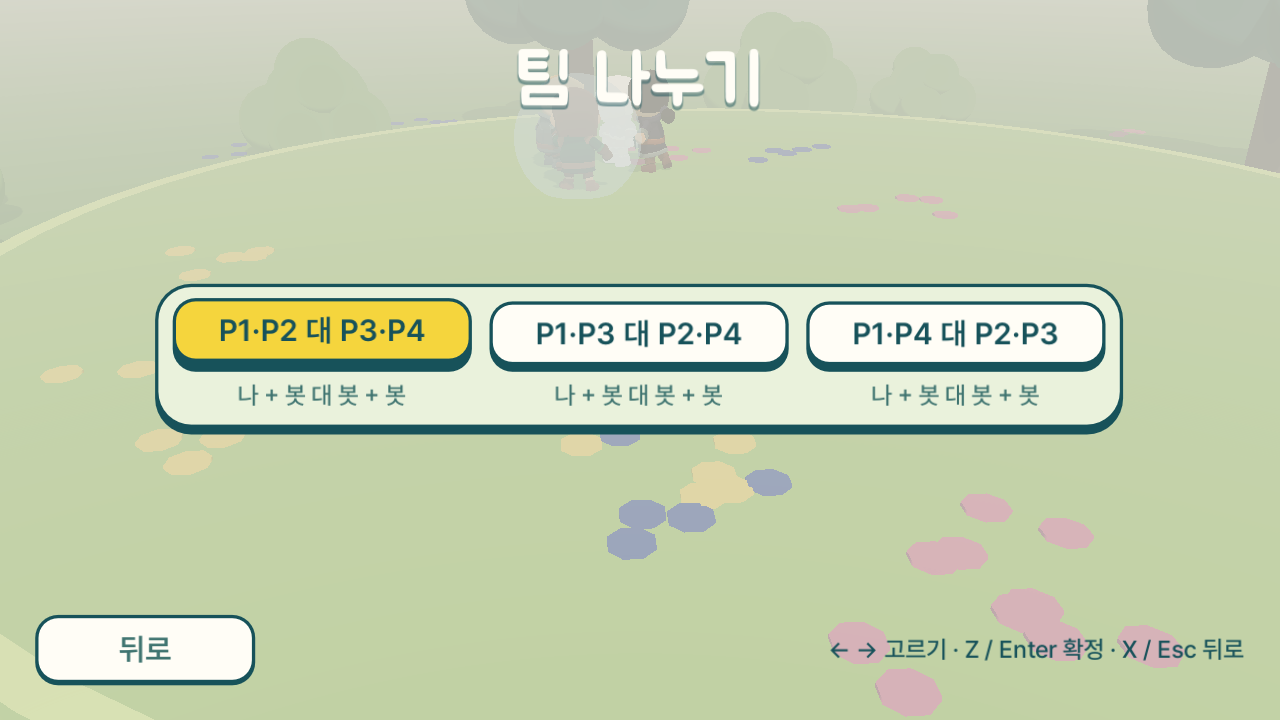
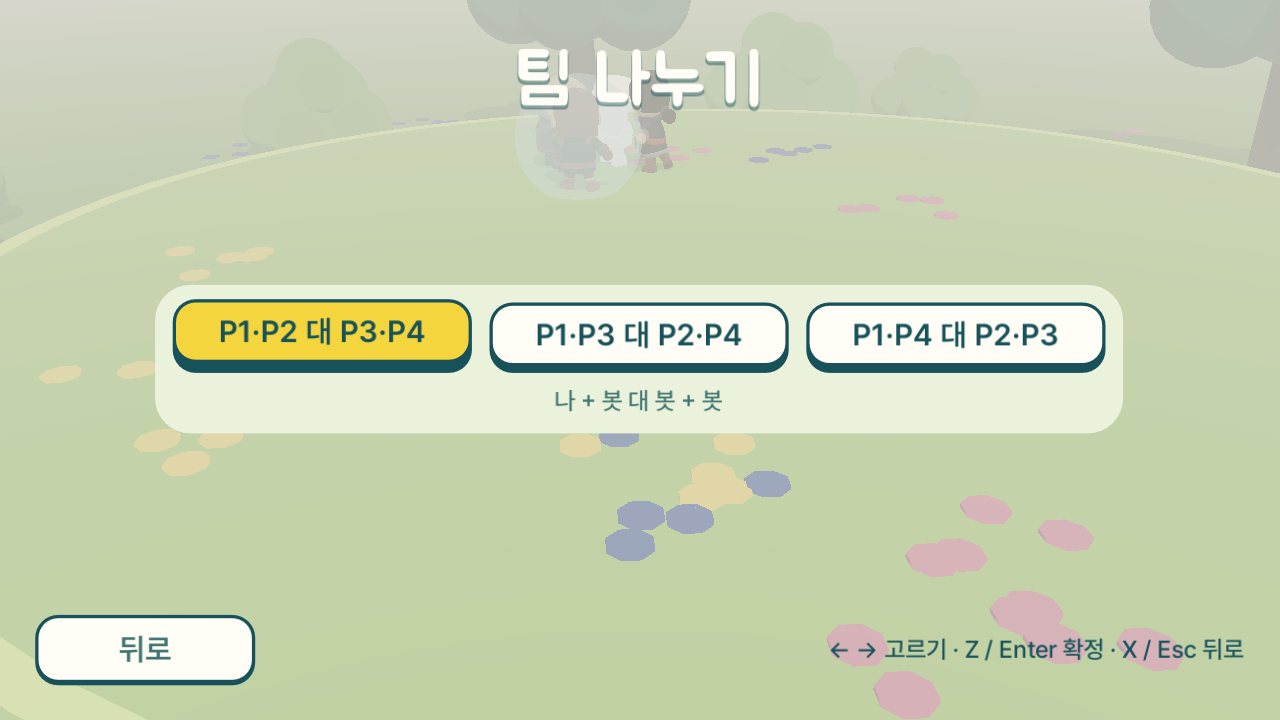
fix: declutter menu panels and repeated option captions
Panels drop their outline so only the sticker keys draw lines, and an
option row whose captions are all the same says it once under the row.

diff --git a/docs/design.md b/docs/design.md
@@ -364,7 +364,7 @@ v1 (Phase 1~5): 정보는 상단·조작은 하단, `DamageCounter`를 상단에
 | DS-CMP-04 | `TouchButton` | 액션 입력 | idle · pressed · highlight · disabled · charging | 아이콘, `petal_yellow`, `motion_fast` | 1 (v1), 2 (v2) | PRD-CTL-03, PRD-CTL-04 |
 | DS-CMP-05 | `ChargeGauge` | 강공격 차지량 (월드 공간) | 차지 중 · 최대(반짝) | `petal_yellow` → `fire`, `glow` | 2 | PRD-CMB-02 |
 | DS-CMP-06 | `MenuButton` (`UiMenuButton`) | 메뉴 조작 | idle · focus(호버 포함) · pressed · disabled | **v2 코믹 스티커 키 (2026-10-08)**: `ui_surface` 면 + `canopy_deep` 외곽선 `sticker_edge` 3 + 아래쪽 두꺼운 키 테두리(primary `sticker_depth` 6 / secondary 2 + `ui_text_soft` 글자). focus = `petal_yellow` 면 + 키가 3px 들림(`sticker_depth_focus` 9), pressed = `ui_accent` 면 + 키가 눌림(2) + `PRESS_SQUISH`, disabled = `ui_surface_dim` 평평. 블러 그림자 없음. `radius_m`, 높이 `button_height` 64, 안쪽 여백 `s5`/`s2`. 메뉴 하단 "뒤로"는 폭 `back_button_width` 200. ghost(유리 카드 위)는 투명 + `ui_surface` 70% 테두리 그대로 | 4.0 | PRD-UI-02 |
-| DS-CMP-07 | `Panel` (`UiPanel`) | 메뉴·설정 컨테이너 | 기본 | **v2 코믹 스티커 카드 (2026-10-08)**: `ui_surface_dim` 면 + `canopy_deep` 외곽선 + 아래 키 테두리 `sticker_depth`, `radius_l`, 안쪽 여백 `s4`(v1 `s6`에서 축소). 테마 기본 `PanelContainer`·`Button`(토글)도 같은 스티커(`Sticker.box`). 패널 안 슬라이더 홈은 `ui_surface` | 4.0 | PRD-UI-02 |
+| DS-CMP-07 | `Panel` (`UiPanel`) | 메뉴·설정 컨테이너 | 기본 | **v2 평면 카드 (2026-10-08)**: `ui_surface_dim` 면, 외곽선·그림자 없음(선은 안의 스티커 키만 그린다 — 패널까지 외곽선이면 선이 겹쳐 어지러움), `radius_l`, 안쪽 여백 `s4`(v1 `s6`에서 축소). 테마 기본 `PanelContainer`도 같은 평면, `Button`(토글)은 스티커(`Sticker.box`). 옵션 선택 화면에서 모든 옵션 설명이 같으면 줄 아래 한 번만 쓴다(`OptionPanel`). 패널 안 슬라이더 홈은 `ui_surface` | 4.0 | PRD-UI-02 |
 | DS-CMP-08 | `SelectCard` | 경기장·캐릭터 선택 | idle · focus · selected · locked | `title`, 디오라마 썸네일(경기장) / 캐릭터 초상(`CharacterPortrait`: 자기 모델이 작은 잔디 무대에서 idle, 포커스·선택된 카드만 매 프레임 그림), 플레이어 색 링(선택), 커서 배지(`CardMarks`: 그 카드에 커서가 있는 플레이어의 마커+번호, 썸네일 오른쪽 위에 겹쳐 높이 0) | 4, 5 | PRD-UI-02 |
 | DS-CMP-09 | `ResultBanner` | 승패·재시작 | 승리 · 패배 · 무승부 | `display_l`, `motion_squish`, 꽃잎 파티클 | 1 | PRD-UI-01 |
 | DS-CMP-10 | `PlayerSlot` | 참가자 표시 | 비어있음(`ui_surface_dim`) · 선택 중 · 준비(`stroke_focus` 플레이어 색 링) · 연결 끊김(dim + 마커 흐림, Phase 6 자리) | 한 줄 머리: `PlayerMarker`(색+모양) · `P1`(`title`) · 봇 태그 · 캐릭터(`body`) · 상태(`caption`), 아래 `PromptRow`(DS-TOK-06). 봇 칸은 옆 사람 칸에 프롬프트가 있으면 그 자리에 안내 한 줄("시작할 때 캐릭터를 골라요", `caption` `ui_text_soft`, 프롬프트 줄 높이)을 둬 칸 높이가 같다. `radius_l`, `shadow_soft`, 최소 폭 400 | 5, 6 | PRD-LOCAL-01, PRD-NET-03 |
